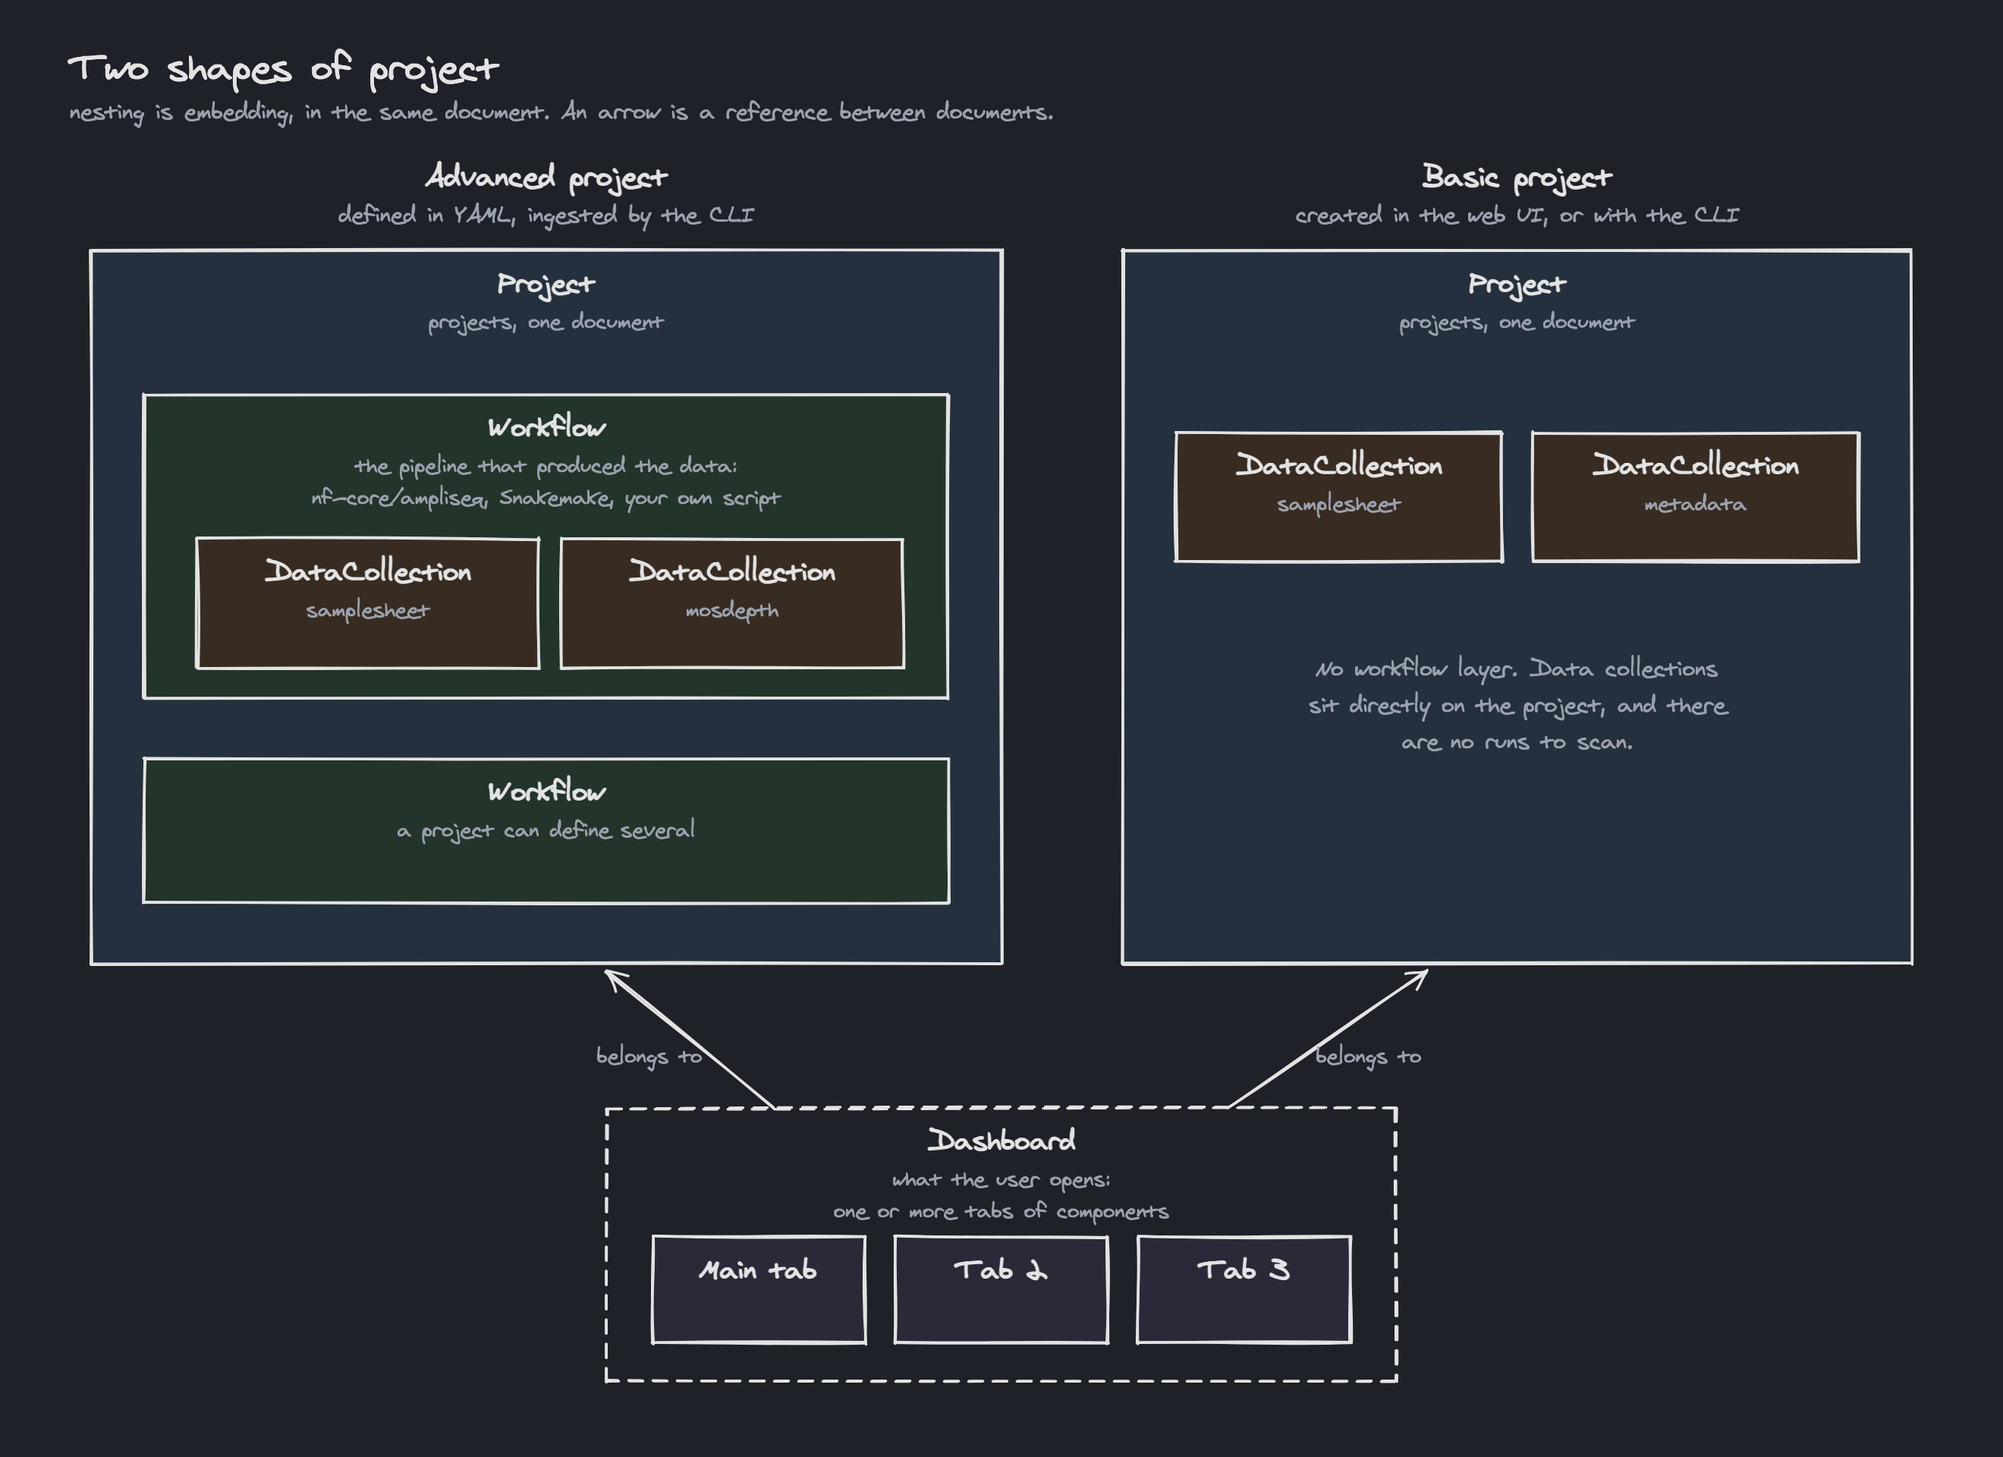
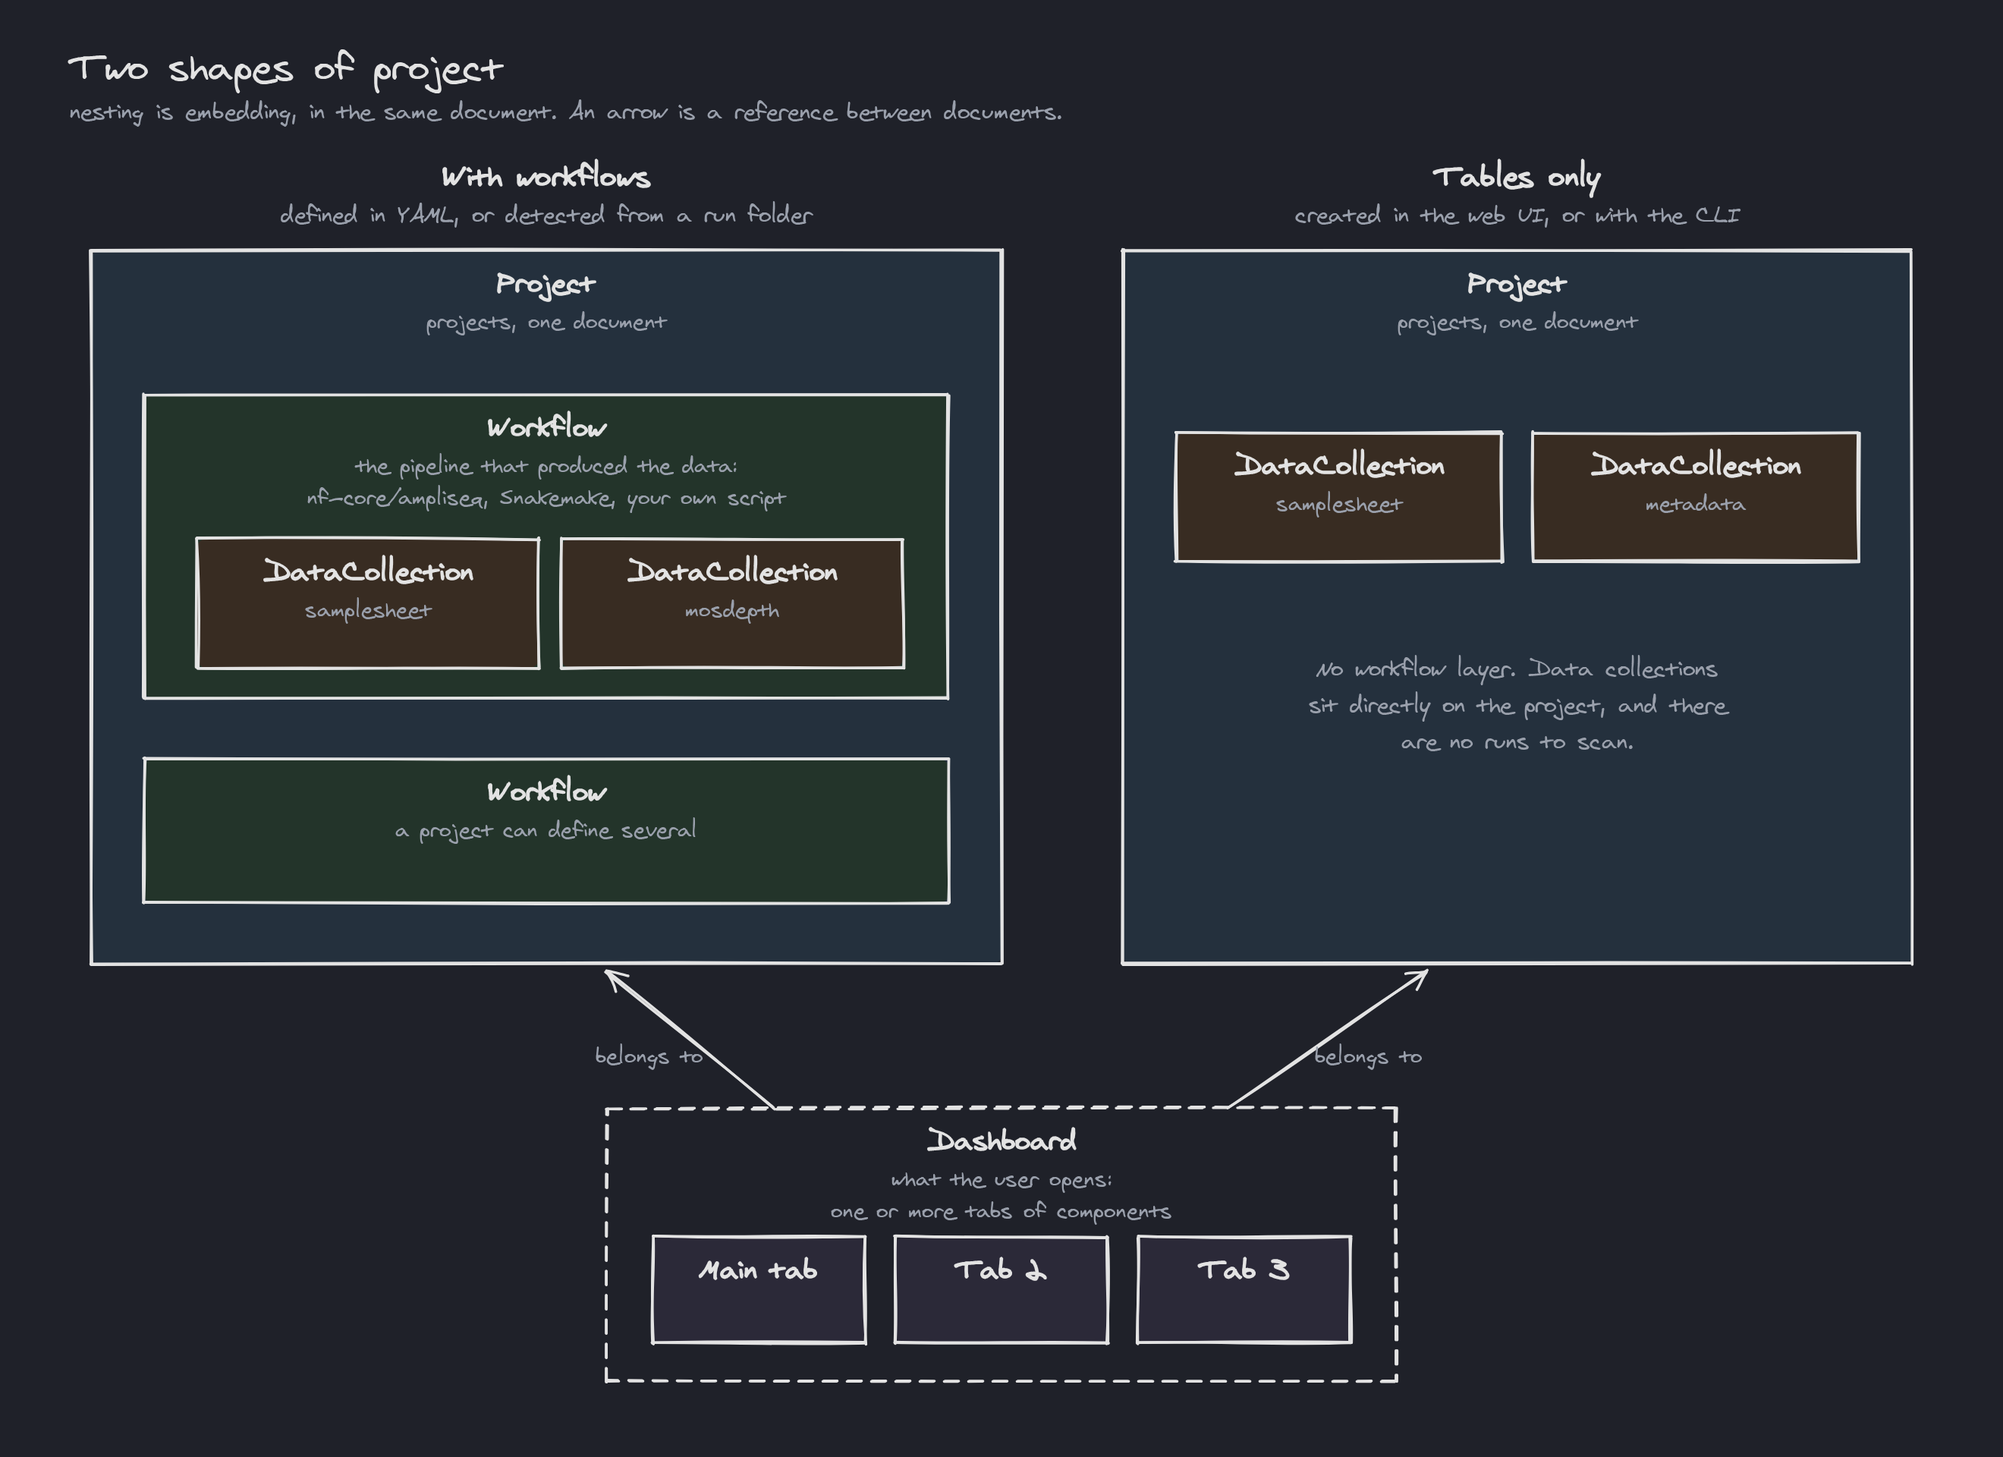
docs: no more Basic or Advanced projects, a project has a shape
Claude-Session: https://claude.ai/code/session_01MF8RxNXYuepruK3J4tQE6j

diff --git a/dev/diagrams/data_model.py b/dev/diagrams/data_model.py
@@ -32,8 +32,8 @@ def project_shape(theme: Theme) -> Sketch:
     )
 
     # -- advanced -----------------------------------------------------------
-    s.text(360, 122, "Advanced project", size=19, weight="bold")
-    s.text(360, 146, "defined in YAML, ingested by the CLI", size=15, colour=theme.dim)
+    s.text(360, 122, "With workflows", size=19, weight="bold")
+    s.text(360, 146, "defined in YAML, or detected from a run folder", size=15, colour=theme.dim)
     s.box(Box(60, 165, 600, 470, "blue", "Project", ("projects, one document",)))
 
     s.box(
@@ -53,7 +53,7 @@ def project_shape(theme: Theme) -> Sketch:
     s.box(Box(95, 500, 530, 95, "green", "Workflow", ("a project can define several",)))
 
     # -- basic --------------------------------------------------------------
-    s.text(1000, 122, "Basic project", size=19, weight="bold")
+    s.text(1000, 122, "Tables only", size=19, weight="bold")
     s.text(1000, 146, "created in the web UI, or with the CLI", size=15, colour=theme.dim)
     s.box(Box(740, 165, 520, 470, "blue", "Project", ("projects, one document",)))
 

diff --git a/docs/usage/projects/yaml-examples.md b/docs/usage/projects/yaml-examples.md
@@ -16,27 +16,25 @@ This guide provides comprehensive YAML configuration examples for Depictio proje
 
 ## <span style="color: #45B8AC;">:material-rocket-launch:</span> Quick Start Examples
 
-Choose your starting point based on your project complexity:
+Choose your starting point based on your project complexity. `project_type` is optional and ignored since v1.21.0, so the examples omit it.
 
-=== "**Basic** Project (Minimal)"
+=== "Tables only (minimal)"
 
     Perfect for direct file upload and analysis:
 
     ```yaml
     name: "My Analysis Project"
-    project_type: "basic"
 
     # Files will be uploaded through the web interface
     # No additional configuration needed!
     ```
 
-=== "**Basic** Project (CLI)"
+=== "Tables only (CLI)"
 
-    For CLI-based basic projects with direct files:
+    For CLI-based projects with direct files:
 
     ```yaml
     name: "CSV Analysis Project"
-    project_type: "basic"
     is_public: false
 
     data_collections:
@@ -56,13 +54,12 @@ Choose your starting point based on your project complexity:
               has_header: true
     ```
 
-=== "Advanced Project (Minimal)"
+=== "Project with a workflow (minimal)"
 
     For workflow-generated data with pattern matching:
 
     ```yaml
     name: "RNA-seq Analysis"
-    project_type: "advanced"
 
     workflows:
       - name: "rnaseq_pipeline"
@@ -106,18 +103,17 @@ name: string                              # Required: Human-readable project nam
                                           # Example: "Multi-omics Cancer Study"
 
 
-# Advanced projects only: Workflow definitions
-workflows: [Workflow]                     # Default: [] (empty for basic projects)
+# Projects with workflows only: Workflow definitions
+workflows: [Workflow]                     # Default: [] (empty for tables-only projects)
                                           # Array of workflow configurations
                                           # See "Workflow Configuration" section
 
 # === REQUIRED FIELDS WITH DEFAULT VALUES ===
 
-# Project type determines the configuration structure
+# Legacy field, optional and ignored since v1.21.0
 project_type: "basic" | "advanced"        # Default: "basic"
-                                          # Options:
-                                          # - basic: Direct file upload/processing
-                                          # - advanced: Workflow-integrated projects
+                                          # Still accepted, but no longer decides
+                                          # what a project can do
 
 # Project visibility
 is_public: boolean                        # Default: false
@@ -138,9 +134,11 @@ data_management_platform_project_url: string | null    # Default: null
                                                         # Example: "https://labid.embl.org/projects/123"
 ```
 
-### Project Types Deep Dive
+### Project Shapes
 
-#### Basic Projects
+Since v1.21.0 there is no project type to choose. `project_type` is still accepted in YAML and kept in the model, so older files validate, but it is optional and ignored. A project has workflows or it does not.
+
+#### Tables only
 
 Designed to be minimal and easy to set up, WebUI compatible, and suitable for small-scale analyses.
 
@@ -157,7 +155,7 @@ Designed to be minimal and easy to set up, WebUI compatible, and suitable for sm
 - Data uploaded via web interface or defined in `data_collections`
 - No workflow integration needed (default workflow is created under the hood for system compatibility)
 
-#### Advanced Projects
+#### With workflows
 
 Designed for complex data processing pipelines, automated workflows, and large-scale analyses.
 
@@ -175,9 +173,9 @@ Designed for complex data processing pipelines, automated workflows, and large-s
 - Regex-based file discovery
 - Multi-run aggregation capabilities
 
-## <span style="color: #45B8AC;">:material-cog:</span> Workflow Configuration (Advanced)
+## <span style="color: #45B8AC;">:material-cog:</span> Workflow Configuration
 
-Advanced projects use workflows to describe data organization patterns. Each workflow corresponds to a computational pipeline that generates structured data.
+Projects with workflows use workflows to describe data organization patterns. Each workflow corresponds to a computational pipeline that generates structured data.
 
 ```yaml linenums="1"
 workflows:
@@ -832,7 +830,6 @@ links:
 
 ```yaml
 name: "My Project"
-project_type: "advanced"
 
 links:
   - source_dc_id: sample_metadata
@@ -909,7 +906,6 @@ When you run `depictio ingest`, the CLI will:
 
 ```yaml
 name: "RNA-seq Expression Analysis"
-project_type: "advanced"
 is_public: false
 
 # Cross-DC Links for interactive filtering
@@ -994,7 +990,6 @@ workflows:
 
 ```yaml
 name: "Strand-Seq data analysis"
-project_type: "advanced"
 data_management_platform_project_url: "https://labid.embl.org/core/projects/default/5baa8f07-bd00-46e7-b3cb-ec79d01f6f3c"
 
 # Cross-DC Links for interactive filtering
@@ -1137,7 +1132,6 @@ workflows:
 
 ```yaml
 name: "MultiQC Quality Control Analysis"
-project_type: "advanced"
 
 # Cross-DC Links for interactive filtering
 links:

diff --git a/docs/usage/guides/web_ui.md b/docs/usage/guides/web_ui.md
@@ -219,8 +219,8 @@ filters. The link grants no access: it only narrows what they could already open
 
     The Projects Guide covers:
 
-    - **Project Types** - Basic vs Advanced projects
-    - **Creating Projects** - Step-by-step instructions
+    - **Starting a project from a source** - Projects are created from their data
+    - **Creating Projects** - Step-by-step instructions, see [Create a project](../projects/guide.md#create-a-project)
     - **Configuration** - YAML setup and examples
     - **Data Collections** - File organization and processing
     - **Permissions** - Access control and collaboration
@@ -243,10 +243,13 @@ filters. The link grants no access: it only narrows what they could already open
 
 ### <span style="color: #45B8AC;">:material-link-variant:</span> Creating a project from a run folder or a manifest <small>(v1.16.0+)</small> { #creating-a-project-from-a-manifest }
 
-**+ New Project** offers four tabs: **Create New**, **Import**, **From
-Manifest** and **From a run folder**. The last two build a project from data
-the server reads, with no CLI involved, in three steps: **Source**, **Preview**
-(a dry run, nothing is created) and **Create**.
+**+ New Project** starts a project from a source. There is no Basic or Advanced choice
+since v1.21.0: the project is created from its data, and the pipeline is detected or
+picked as an optional correction. A folder can be read as **Flat tables**, **Custom
+workflows** (Project Builder) or **Pipeline template**. See
+[Create a project](../projects/guide.md#create-a-project). The run folder and manifest
+sources build a project from data the server reads, with no CLI involved, in three steps:
+**Source**, **Preview** (a dry run, nothing is created) and **Create**.
 
 - **From a run folder**: point at the results folder of one pipeline run, in a
   bucket or, on a `depictio local` server, on this computer. Depictio
@@ -358,7 +361,7 @@ Depictio's main pages and their URLs:
 
 ### <span style="color: #45B8AC;">:material-database-cog:</span> Project detail (/projects/{id}) { #project-detail }
 
-A single project's data. Since v1.17.0 the page starts with the project's type and its
+A single project's data. Since v1.17.0 the page starts with a sentence on what the project holds and its
 workflows, as cards to pick one from, then a switch between two views:
 
 - **Data collections** — the project's workflows, a sortable, filterable table of its data collections, its cross-DC links, and the details of the selected collection. For a [composed](../projects/composed-dashboards.md) project, a **Files the catalog did not recognise** card lists the tables left out, with the command that adds each <small>(v1.16.0+)</small>.
@@ -372,8 +375,8 @@ You can reach this page directly by clicking the **project badge** shown on any
 dashboard card or in the dashboards table, or the **project name** in an open
 dashboard's Settings <small>(v1.6.0+)</small>.
 
-[![A project page: type Advanced, the penguin_species_analysis workflow selected, and the switch between Data collections and Ingestion report, on Data collections](../../images/guides/web-ui/project_detail_light.webp#only-light)](../../images/guides/web-ui/project_detail_light.webp){target=_blank}
-[![A project page: type Advanced, the penguin_species_analysis workflow selected, and the switch between Data collections and Ingestion report, on Data collections](../../images/guides/web-ui/project_detail_dark.webp#only-dark)](../../images/guides/web-ui/project_detail_dark.webp){target=_blank}
+[![A project page: the penguin_species_analysis workflow selected, and the switch between Data collections and Ingestion report, on Data collections](../../images/guides/web-ui/project_detail_light.webp#only-light)](../../images/guides/web-ui/project_detail_light.webp){target=_blank}
+[![A project page: the penguin_species_analysis workflow selected, and the switch between Data collections and Ingestion report, on Data collections](../../images/guides/web-ui/project_detail_dark.webp#only-dark)](../../images/guides/web-ui/project_detail_dark.webp){target=_blank}
 
 Data that is not on the server's own disk is handled in two places
 <small>(v1.16.0+)</small>; the mechanisms are described on

diff --git a/docs/usage/guides/unauthenticated_mode.md b/docs/usage/guides/unauthenticated_mode.md
@@ -10,7 +10,7 @@
 
 In unauthenticated mode, user lands as a temporary anonymous user with limited access. This anonymous user can only access the existing **public dashboards** and play with the interactive features in a stateless manner (no database persistence), but cannot create or modify dashboards. This mode is ideal for quick demonstrations or public sharing of dashboards without requiring user authentication.
 
-If the user wants to create its own dashboard, modify existing ones using the same dataset, or create its own basic project and upload a dataset, they can switch to a temporary authenticated user mode. The temporary user will have a limited session duration (24h by default), after which dashboards will be cleared.
+If the user wants to create its own dashboard, modify existing ones using the same dataset, or create its own project and upload a dataset, they can switch to a temporary authenticated user mode. The temporary user will have a limited session duration (24h by default), after which dashboards will be cleared.
 
 Example unauthenticated mode URL is available on documentation landing page: [https://depictio.github.io/depictio-docs/latest/](https://depictio.github.io/depictio-docs/latest/).
 

diff --git a/docs/features/data-model.md b/docs/features/data-model.md
@@ -31,10 +31,10 @@ from the object names alone:
 
 | | Structure | Typical use |
 | --- | --- | --- |
-| **`advanced`** | Project :material-arrow-right: Workflow :material-arrow-right: DataCollection | Pipeline output. Defined in a YAML file and ingested by the CLI. |
-| **`basic`** | Project :material-arrow-right: DataCollection | A few files you want on a dashboard. Created in the web UI, or with the CLI. |
+| **With workflows** | Project :material-arrow-right: Workflow :material-arrow-right: DataCollection | Pipeline output. Defined in a YAML file and ingested by the CLI, or detected from a run folder. |
+| **Tables only** | Project :material-arrow-right: DataCollection | A few files you want on a dashboard. Created in the web UI, or with the CLI. |
 
-Nothing else changes between the two. The same data collection types, joins, links,
+The shape follows from the data, not from a type you choose. Nothing else changes between the two. The same data collection types, joins, links,
 permissions and dashboards apply either way. The workflow layer only exists to answer
 "which pipeline produced this, and in which of its runs".
 

diff --git a/docs/usage/projects/reference.md b/docs/usage/projects/reference.md
@@ -18,11 +18,10 @@ name:
   # Must be non-empty string
   # Example: "Multi-omics Cancer Study"
 
-# Required: Project type determines configuration structure
+# Optional, ignored since v1.21.0: kept so older files still validate
 project_type:
-  "basic" # Required: Options are "basic" or "advanced" (default: "basic")
-  # basic: Direct file upload/processing
-  # advanced: Workflow-integrated projects
+  "basic" # Options are "basic" or "advanced" (default: "basic")
+  # No longer decides what a project can do
 
 # Optional: Project visibility settings
 is_public:
@@ -59,7 +58,7 @@ links:  # Optional: Define relationships for cross-DC filtering
       #   "pattern" - Template substitution (e.g., "{sample}.bam")
 
 # =============================================================================
-# WORKFLOWS (Required for Advanced Projects)
+# WORKFLOWS (for projects with workflows)
 # =============================================================================
 
 workflows:

diff --git a/docs/usage/projects/index.md b/docs/usage/projects/index.md
@@ -10,7 +10,7 @@ Everything you need to configure and manage Depictio projects.
 
 | Page | Description |
 |------|-------------|
-| [Guide](guide.md) | Project types (Basic, Advanced, Template) and lifecycle |
+| [Guide](guide.md) | Creating a project from its data, templates and lifecycle |
 | [YAML Examples](yaml-examples.md) | Configuration patterns with annotated examples |
 | [Full Reference](reference.md) | Complete YAML field reference |
 | [Recipes](recipes.md) | Data transformation recipes for bioinformatics pipelines |

diff --git a/docs/blog/drafts/create-your-first-dashboard.md b/docs/blog/drafts/create-your-first-dashboard.md
@@ -17,6 +17,9 @@ tags:
 
 # 🎨 Create Your First Dashboard: From Data to Interactive Insights
 
+!!! note "Project types were removed in v1.21.0"
+    This draft mentions the Basic and Advanced project types. Since v1.21.0 the UI no longer offers it: a project is created from its data. See the [Projects guide](../../usage/projects/guide.md).
+
 **Step-by-step guide to building your first interactive dashboard in Depictio - no coding required!**
 
 <!-- more -->

diff --git a/docs/blog/posts/depictio-project-types.md b/docs/blog/posts/depictio-project-types.md
@@ -16,6 +16,9 @@ tags:
 
 # 📊 Depictio Project Types: Choose Your Data Strategy
 
+!!! note "Project types were removed in v1.21.0"
+    This post describes the Basic and Advanced choice. Since v1.21.0 the UI no longer offers it: a project is created from its data. See the [Projects guide](../../usage/projects/guide.md).
+
 **From simple CSV files to complex bioinformatics pipelines - discover which project type fits your needs.**
 
 <!-- more -->

diff --git a/docs/developer/contributing-templates.md b/docs/developer/contributing-templates.md
@@ -79,7 +79,6 @@ template:
 
 # ── Standard project config with {DATA_ROOT} placeholders ─────────
 name: "My Pipeline Analysis"
-project_type: "advanced"
 is_public: true
 workflows:
   - name: "my-pipeline"
@@ -208,7 +207,6 @@ template:
     - "dashboards/main.yaml"
 
 name: "My Manifest Analysis"
-project_type: "basic"
 workflows:
   - name: "manifest"
     engine: { name: "python" }

diff --git a/docs/features/cross-dc-filtering.md b/docs/features/cross-dc-filtering.md
@@ -140,7 +140,6 @@ same way.
 
 ```yaml
 name: "RNA-seq QC Analysis"
-project_type: "advanced"
 
 # Define links for cross-DC filtering
 links:
